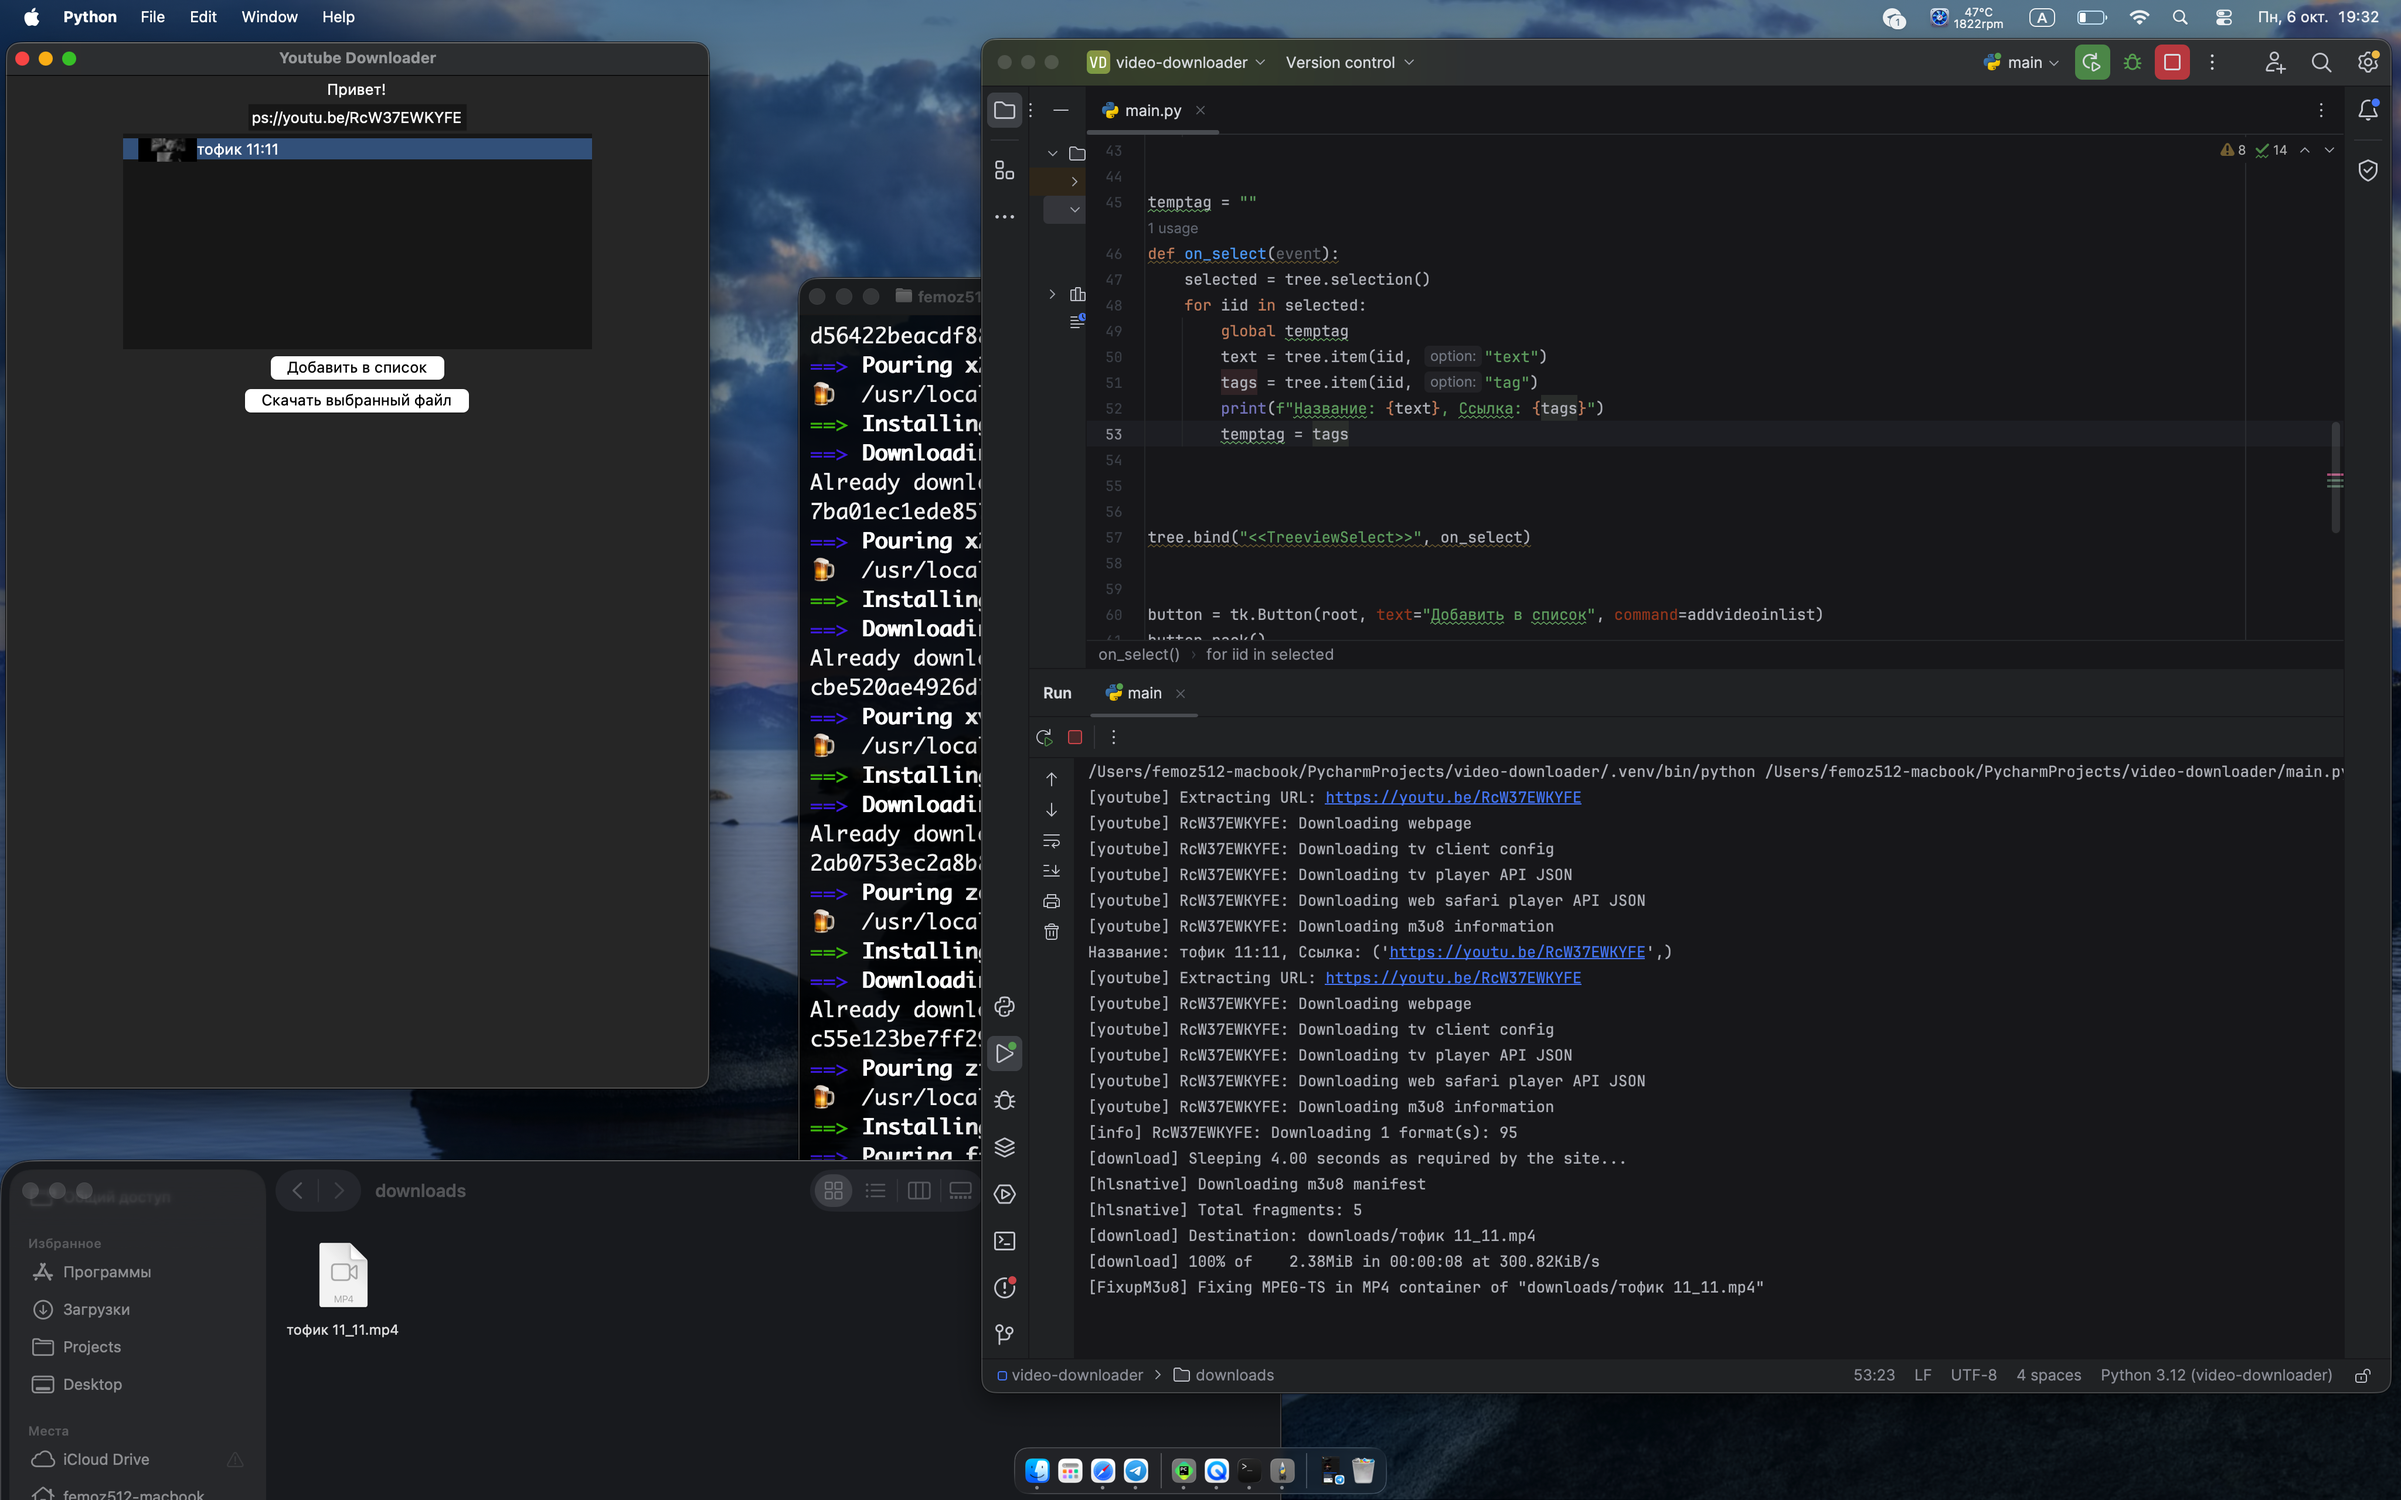
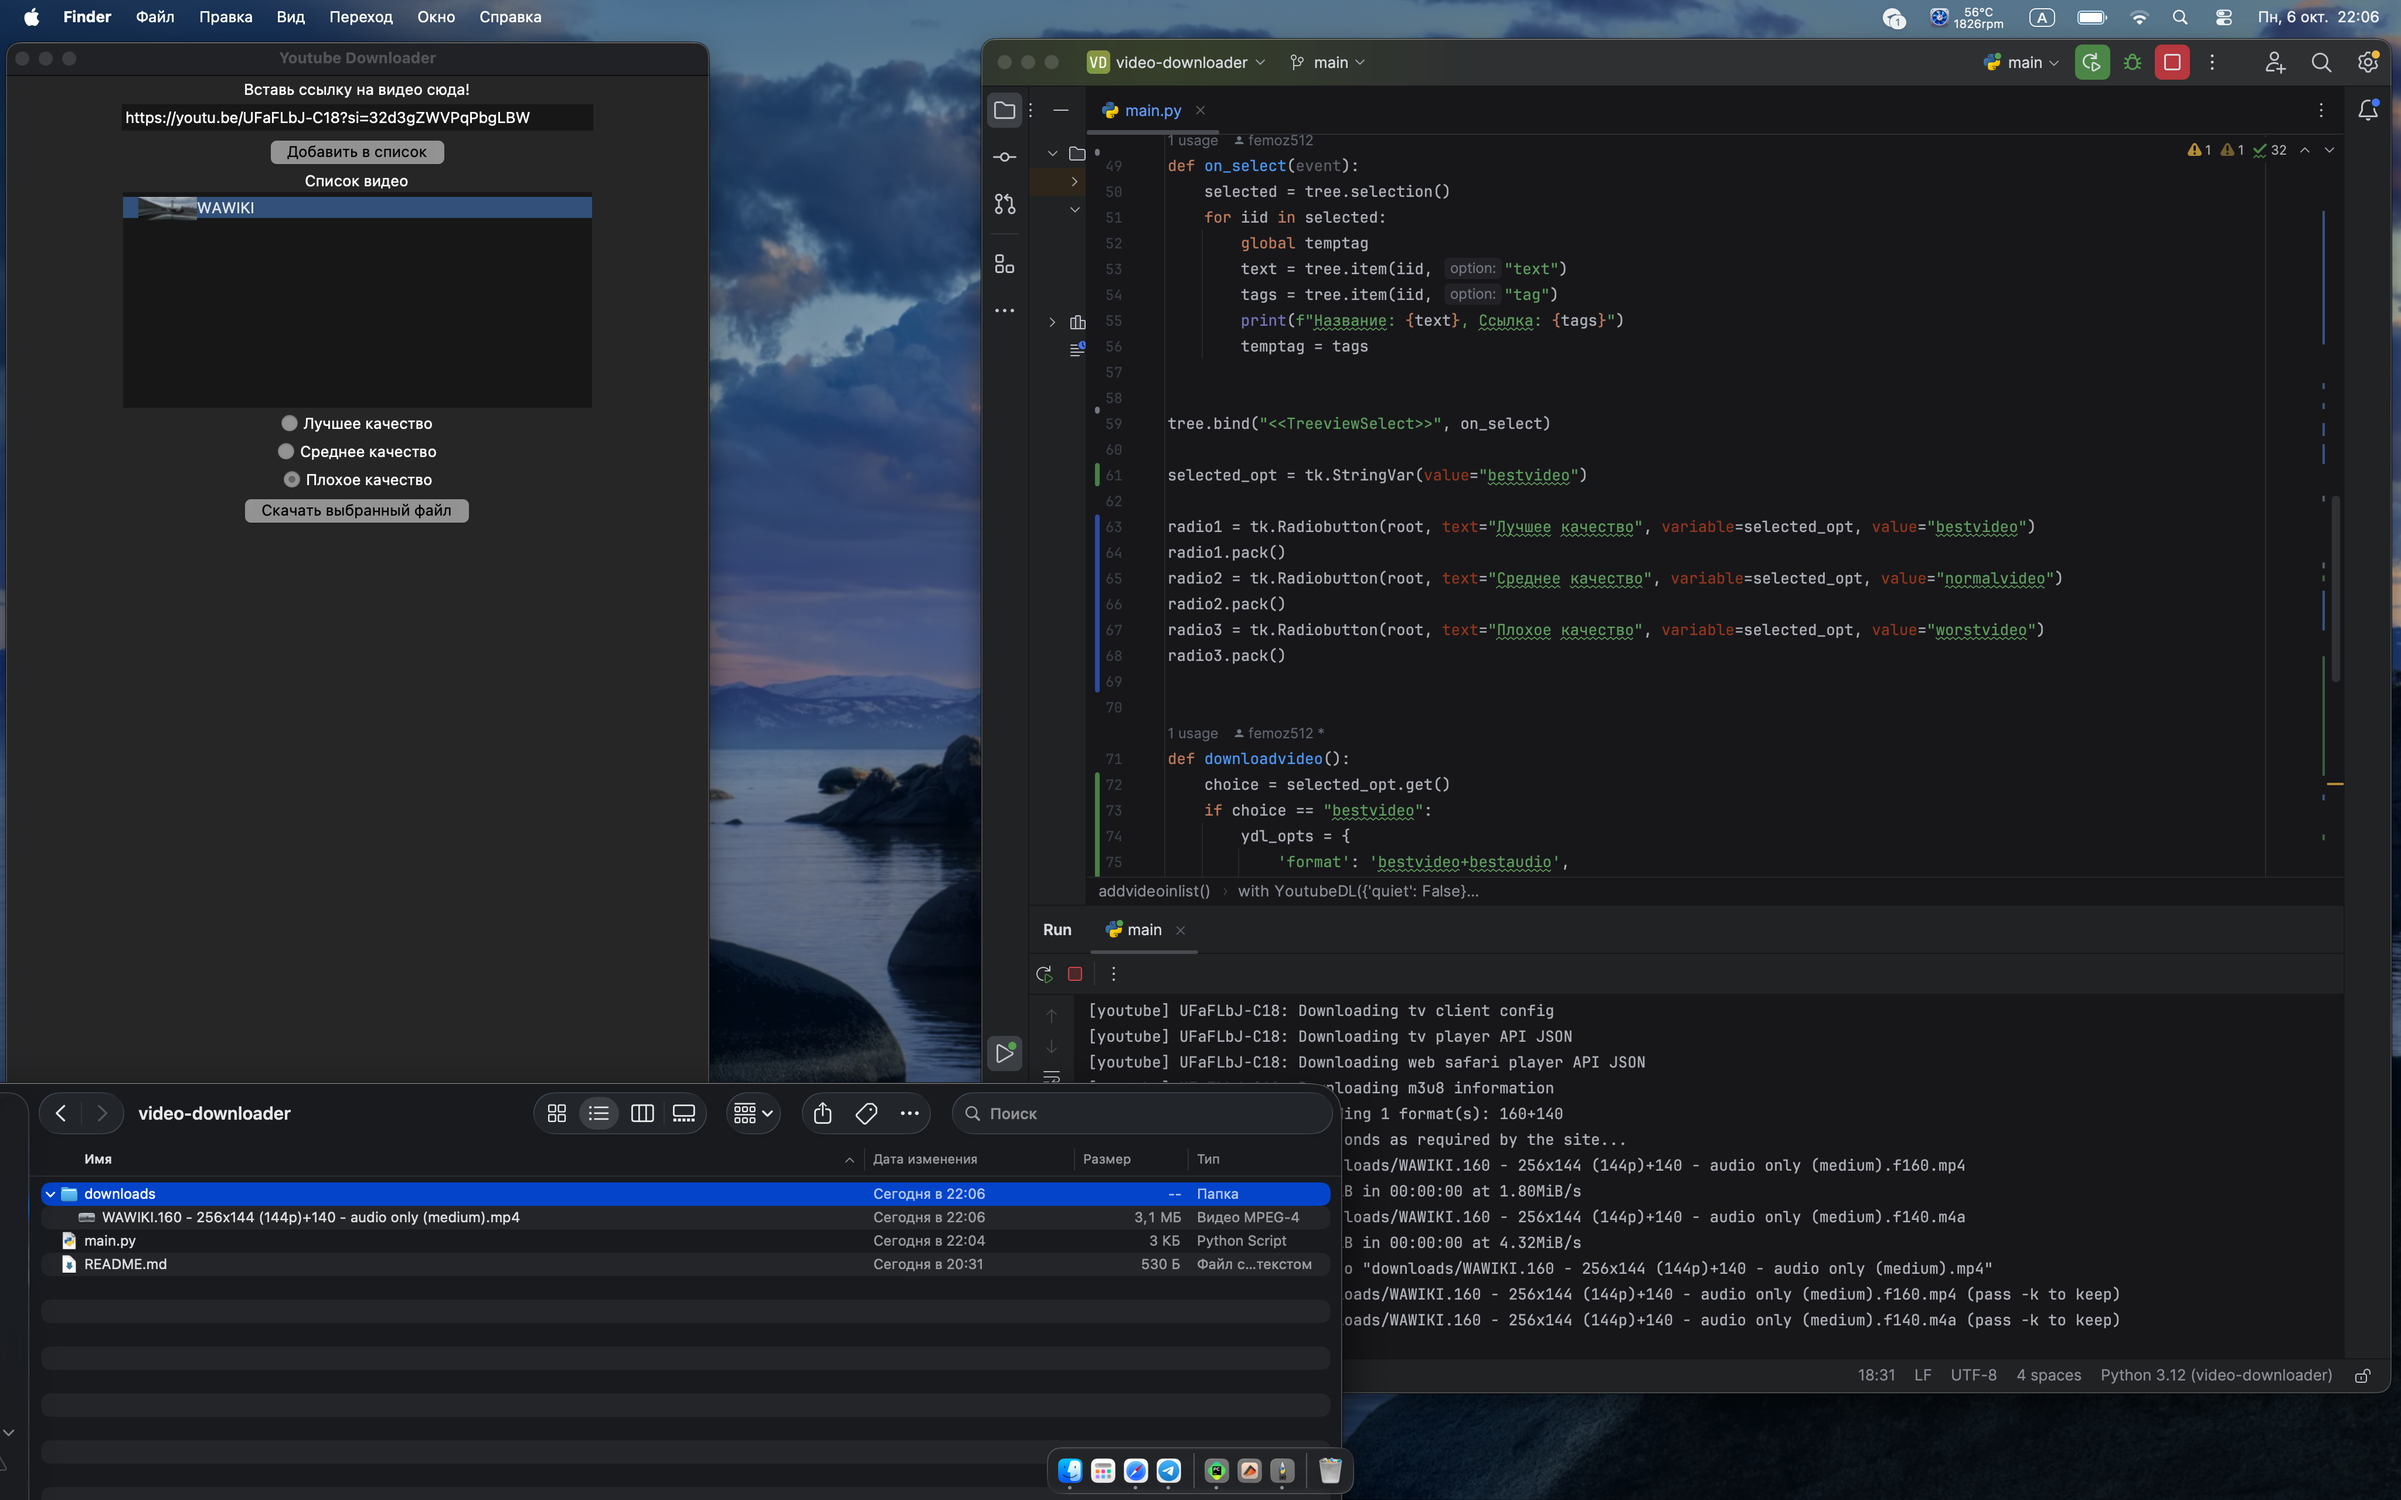
Video quality update

diff --git a/main.py b/main.py
@@ -5,44 +5,47 @@ from PIL import Image, ImageTk
 import requests
 from io import BytesIO
 
-ydl_opts = {
-    'format': 'best',
-    'quiet': False,
-    'outtmpl': 'downloads/%(title)s.%(ext)s'
-}
 
-root = tk.Tk()
-root.title("Youtube Downloader")
-root.geometry("600x900")
-
-label = tk.Label(root, text="Привет!")
-label.pack()
-
-video_url = tk.Entry(root)
-video_url.pack()
-
-storage = []
-
-tree = ttk.Treeview(root, columns=("name"), show='tree')
-tree.pack()
+temptag = ""  # For download
+storage = []  # For video-pics in the tree
 
 
 def addvideoinlist():
-    with YoutubeDL(ydl_opts) as ytl:
+    with YoutubeDL({'quiet': False}) as ytl:
         info = ytl.extract_info(video_url.get(), download=False)
         thumbnail_url = info.get('thumbnail')
 
+        # Collecting video-pic
         response = requests.get(thumbnail_url)
         img_data = response.content
         img = Image.open(BytesIO(img_data))
         img = img.resize((50, 20))
         photo = ImageTk.PhotoImage(img)
 
-        iid = tree.insert("", "end", text=info['title'], image=photo, tags=f"{video_url.get()}")
+        tree.insert("", "end", text=info['title'], image=photo, tags=f"{video_url.get()}")
         storage.append(photo)
 
 
-temptag = ""
+root = tk.Tk()
+root.title("Youtube Downloader")
+root.geometry("600x900")
+
+label = tk.Label(root, text="Вставь ссылку на видео сюда!")
+label.pack()
+
+video_url = tk.Entry(root, width=44)
+video_url.pack()
+
+button = tk.Button(root, text="Добавить в список", command=addvideoinlist)
+button.pack()
+
+treelabel = tk.Label(root, text="Список видео")
+treelabel.pack()
+
+tree = ttk.Treeview(root, columns="name", show='tree')
+tree.pack()
+
+
 def on_select(event):
     selected = tree.selection()
     for iid in selected:
@@ -53,18 +56,41 @@ def on_select(event):
         temptag = tags
 
 
-
 tree.bind("<<TreeviewSelect>>", on_select)
 
+selected_opt = tk.StringVar(value="bestvideo")
 
-button = tk.Button(root, text="Добавить в список", command=addvideoinlist)
-button.pack()
+radio1 = tk.Radiobutton(root, text="Лучшее качество", variable=selected_opt, value="bestvideo")
+radio1.pack()
+radio2 = tk.Radiobutton(root, text="Среднее качество", variable=selected_opt, value="normalvideo")
+radio2.pack()
+radio3 = tk.Radiobutton(root, text="Плохое качество", variable=selected_opt, value="worstvideo")
+radio3.pack()
+
 
 def downloadvideo():
+    choice = selected_opt.get()
+    if choice == "bestvideo":
+        ydl_opts = {
+            'format': 'bestvideo+bestaudio',
+            'quiet': False,
+            'outtmpl': 'downloads/%(title)s.%(format)s'
+        }
+    elif choice == "normalvideo":
+        ydl_opts = {
+            'format': 'bestvideo[height<=720]+bestaudio',
+            'quiet': False,
+            'outtmpl': 'downloads/%(title)s.%(format)s'
+        }
+    elif choice == "worstvideo":
+        ydl_opts = {
+            'format': 'worstvideo+worstaudio',
+            'quiet': False,
+            'outtmpl': 'downloads/%(title)s.%(format)s'
+        }
     with YoutubeDL(ydl_opts) as ytl:
         ytl.download(temptag)
-    
-    
+
 
 button_download = tk.Button(root, text="Скачать выбранный файл", command=downloadvideo)
 button_download.pack()
